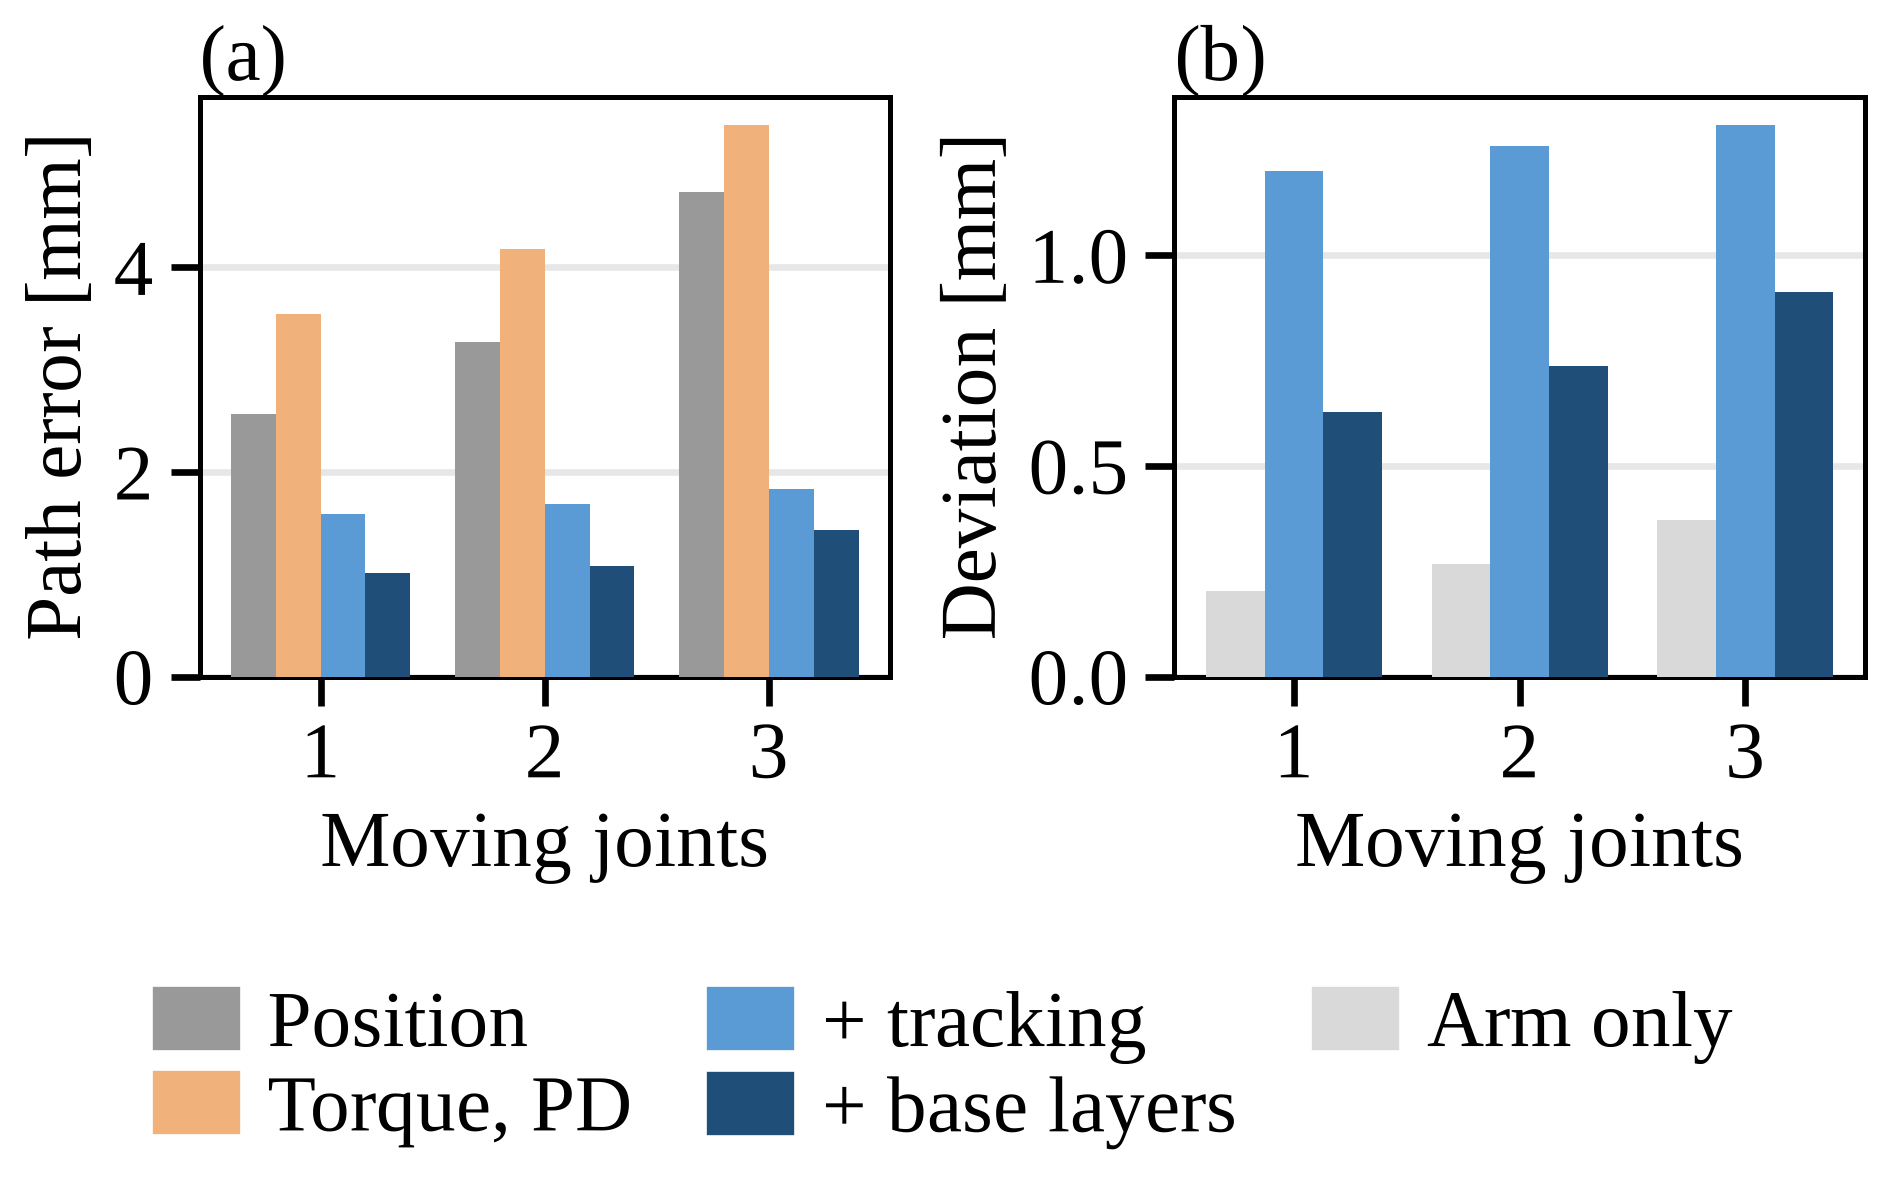
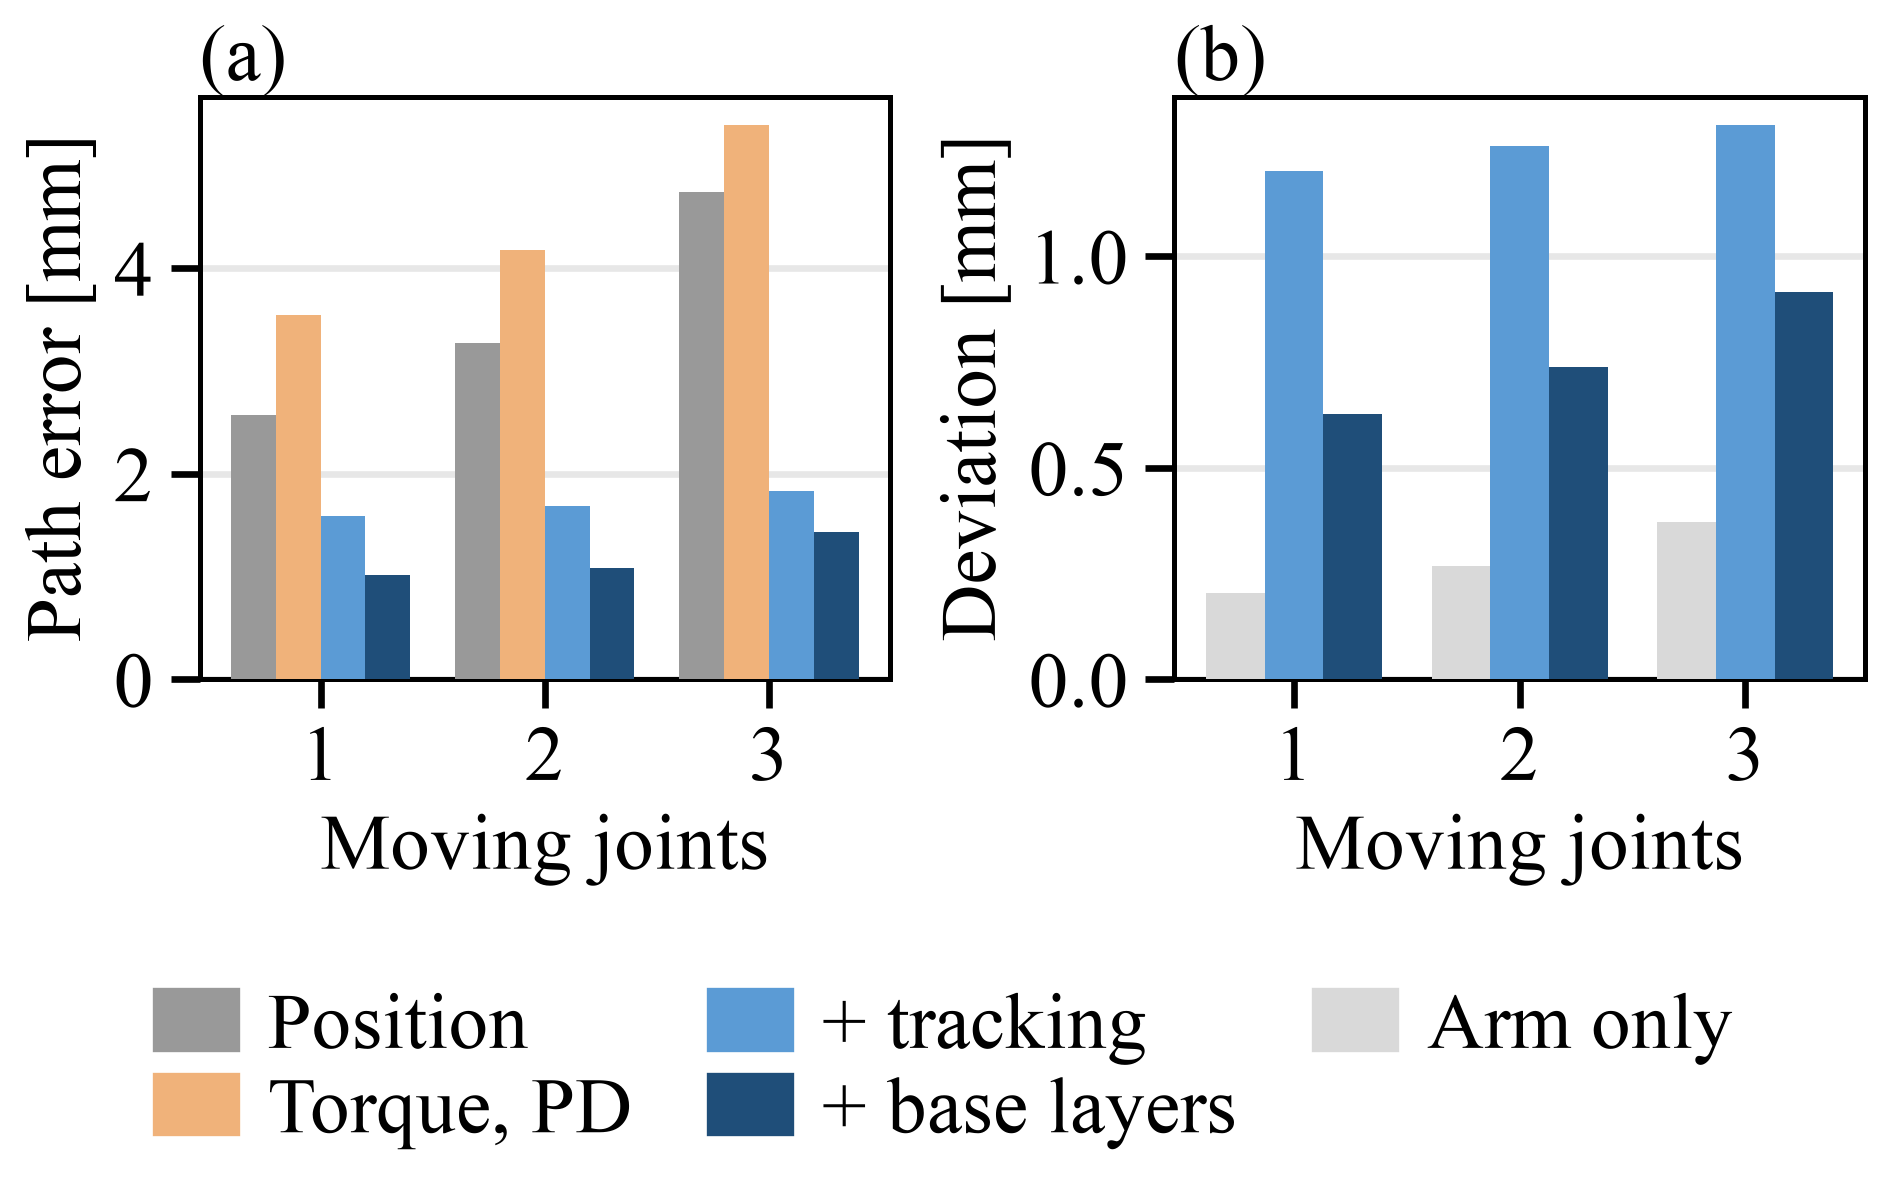
vib_sim: KRoC 그림 글꼴을 본문 영문 글꼴(Times New Roman)로

diff --git a/vib_sim/fig_kroc.py b/vib_sim/fig_kroc.py
@@ -8,10 +8,10 @@ matplotlib.use("Agg")
 import matplotlib.pyplot as plt
 H = os.path.dirname(os.path.abspath(__file__)); O = H + "/out"; CAM = 1.27
 # KRoC 양식: 그림 안 글자는 본문과 같은 9.5 pt, 300 dpi 이상·1,000 픽셀 이상.
-# 그림을 "원고에 넣는 크기 그대로" 만든다(W1·W2 mm) — 넣을 때 줄이거나 키우면 글자 크기가 달라진다. 글꼴은 Times New Roman과 폭이 같은 Liberation Serif.
+# 그림을 "원고에 넣는 크기 그대로" 만든다(W1·W2 mm) — 넣을 때 줄이거나 키우면 글자 크기가 달라진다. 글꼴은 본문의 영문 글꼴인 Times New Roman(없으면 폭이 같은 Liberation Serif로 바꿔 쓴다).
 W1, H1, W2, H2, DPI = 48.0, 39.0, 80.0, 50.0, 600
 MM = 1 / 25.4
-plt.rcParams.update({"font.size": 9.5, "font.family": "Liberation Serif", "mathtext.fontset": "stix", "axes.labelsize": 9.5, "xtick.labelsize": 9.5, "ytick.labelsize": 9.5, "legend.fontsize": 9.5,
+plt.rcParams.update({"font.size": 9.5, "font.family": "Times New Roman", "mathtext.fontset": "stix", "axes.labelsize": 9.5, "xtick.labelsize": 9.5, "ytick.labelsize": 9.5, "legend.fontsize": 9.5,
                      "axes.grid": True, "grid.alpha": 0.3, "axes.linewidth": 0.6, "xtick.major.pad": 2, "ytick.major.pad": 2, "axes.labelpad": 2})
 
 # ---- Fig. 1: 실측 대 모형(엔코더 재생), 18조건. 표식의 뜻은 캡션에 적는다(5: 원, 10: 네모, 15 deg/s: 세모) ----
